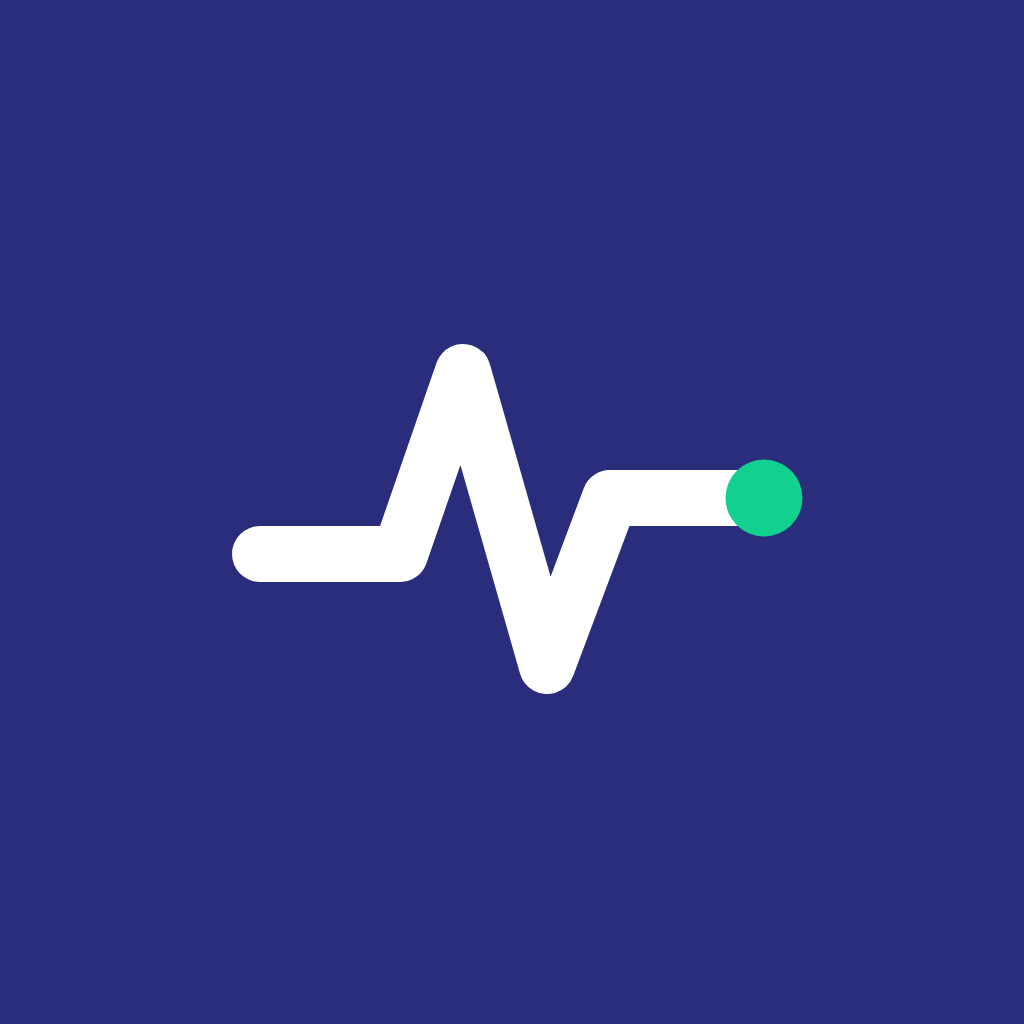
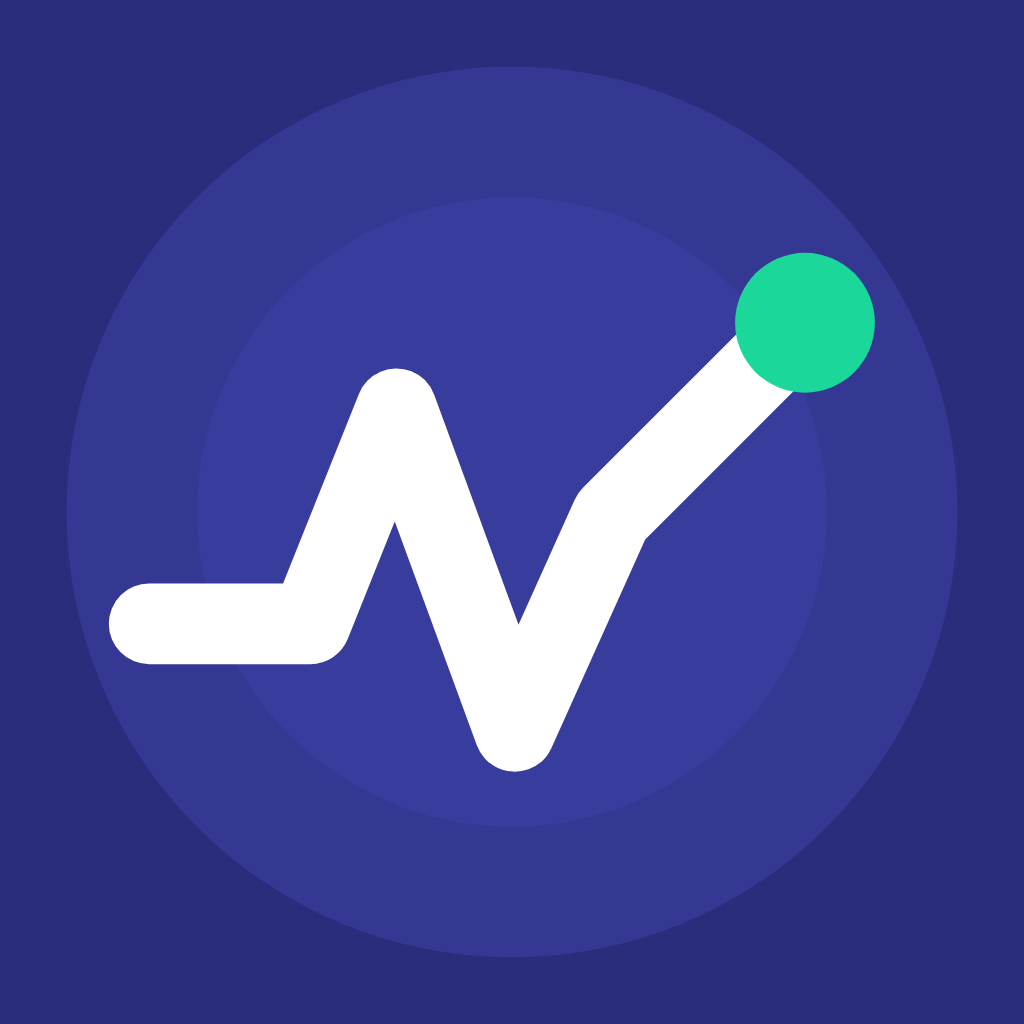
feat(app): yeni uygulama simgesi ve acilis ekrani (C tasarimi)
Ozgun simge: nabiz cizgisi yukselen bir egilime donusur, yesil noktada biter;
zemin temanin lacivert-moru. Adaptive simge on / arka / tek renk katmanlariyla;
cizim guvenli bolgenin icinde. Acilis ekrani ayni logo ve zemin. Kaynak
tools/brand.cjs; onizlemeler screenshots/00-logo.png ve 00b-acilis-ekrani.png.
Yerelde expo prebuild ile butun yogunluklarin uretildigi dogrulandi.

Claude-Session: https://claude.ai/code/session_01Q2PDFkckA7aF5JsQQz7i7X

Changed region(s): [[0.0938, 0.1875, 0.875, 0.8125]]

diff --git a/trade-bot-app/README.md b/trade-bot-app/README.md
@@ -26,6 +26,12 @@ kendi penceresiyle sorulur (`src/ui/confirm.tsx`).
   `cd ../trade-bot && .venv/bin/python tools/capture_app_fixtures.py ../trade-bot-app/fixtures`
 - `e2e/`: her ekranın bu yanıtlarla veri gösterdiğini kanıtlayan tarayıcı testleri; görüntüler `screenshots/`.
 
+## Simge ve açılış ekranı
+Çizim `tools/brand.cjs` içinde tanımlıdır (nabız çizgisi yükselen bir eğilime dönüşür, yeşil noktada biter).
+`node tools/brand.cjs` şunları üretir: `assets/icon.png`, adaptive simgenin ön / arka / tek renk katmanları,
+açılış logosu ve önizlemeler (`screenshots/00-logo.png`, `00b-acilis-ekrani.png`). Android'in yoğunluk
+dosyalarını (mdpi…xxxhdpi) `expo prebuild` bu kaynaklardan üretir.
+
 ## Komutlar
 ```bash
 npm ci
